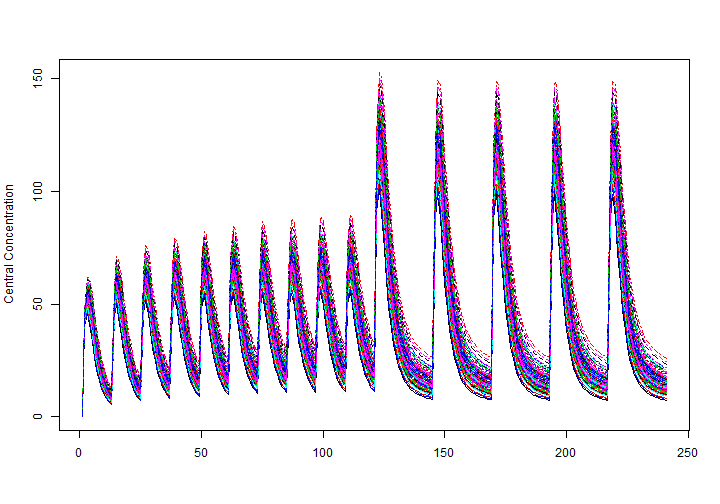
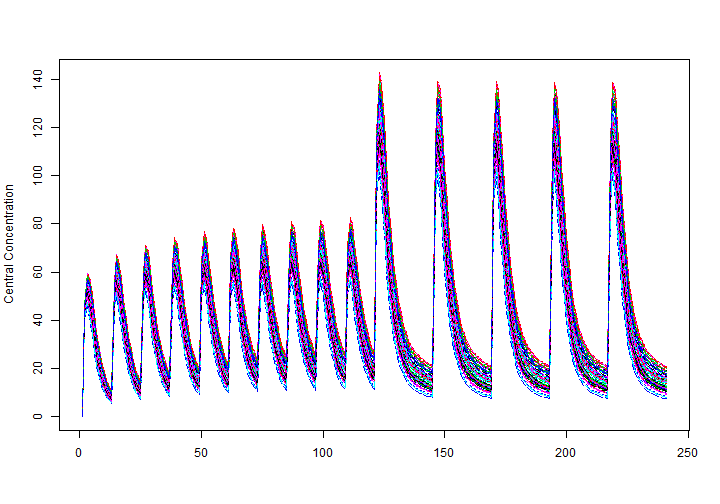
Add some more functions to suppress output (if needed)

diff --git a/README.md b/README.md
@@ -296,7 +296,7 @@ print(x)
 
 ```
 ## Solved RxODE object
-## Dll: C:\Users\fidlema3\AppData\Local\Temp\ep\RtmpKax2LC\Rx_intro-4320592d5afe/mod1.d/mod1_x64.dll
+## Dll: C:\Users\fidlema3\AppData\Local\Temp\ep\RtmpS488tR\Rx_intro-231c63735e9d/mod1.d/mod1_x64.dll
 ## 
 ## Parameters:
 ##      V2      V3      KA      CL       Q     Kin    Kout    EC50 
@@ -329,7 +329,7 @@ print(x)
 
 ```
 ## Solved RxODE object
-## Dll: C:\Users\fidlema3\AppData\Local\Temp\ep\RtmpKax2LC\Rx_intro-4320592d5afe/mod1.d/mod1_x64.dll
+## Dll: C:\Users\fidlema3\AppData\Local\Temp\ep\RtmpS488tR\Rx_intro-231c63735e9d/mod1.d/mod1_x64.dll
 ## 
 ## Parameters:
 ##      V2      V3      KA      CL       Q     Kin    Kout    EC50 
@@ -363,7 +363,7 @@ print(x)
 
 ```
 ## Solved RxODE object
-## Dll: C:\Users\fidlema3\AppData\Local\Temp\ep\RtmpKax2LC\Rx_intro-4320592d5afe/mod1.d/mod1_x64.dll
+## Dll: C:\Users\fidlema3\AppData\Local\Temp\ep\RtmpS488tR\Rx_intro-231c63735e9d/mod1.d/mod1_x64.dll
 ## 
 ## Parameters:
 ##      V2      V3      KA      CL       Q     Kin    Kout    EC50 
@@ -393,6 +393,26 @@ by `dpylr`.  For example you could filter it easily.
 
 ```r
 library(dplyr)
+```
+
+```
+## 
+## Attaching package: 'dplyr'
+```
+
+```
+## The following objects are masked from 'package:stats':
+## 
+##     filter, lag
+```
+
+```
+## The following objects are masked from 'package:base':
+## 
+##     intersect, setdiff, setequal, union
+```
+
+```r
 x <- mod1 %>% solve(theta,ev,inits) %>%  filter(time <=3)
 x
 ```
@@ -413,6 +433,36 @@ if (any(installed.packages()[,"Package"] == "data.table")){
     library(data.table)
     dt <- as.data.table(mod1 %>% solve(theta, ev, inits))
 }
+```
+
+```
+## data.table 1.10.4
+```
+
+```
+##   The fastest way to learn (by data.table authors): https://www.datacamp.com/courses/data-analysis-the-data-table-way
+```
+
+```
+##   Documentation: ?data.table, example(data.table) and browseVignettes("data.table")
+```
+
+```
+##   Release notes, videos and slides: http://r-datatable.com
+```
+
+```
+## 
+## Attaching package: 'data.table'
+```
+
+```
+## The following objects are masked from 'package:dplyr':
+## 
+##     between, first, last
+```
+
+```r
 dt
 ```
 
@@ -470,7 +520,7 @@ x
 
 ```
 ## Solved RxODE object
-## Dll: C:\Users\fidlema3\AppData\Local\Temp\ep\RtmpKax2LC\Rx_intro-4320592d5afe/mod1.d/mod1_x64.dll
+## Dll: C:\Users\fidlema3\AppData\Local\Temp\ep\RtmpS488tR\Rx_intro-231c63735e9d/mod1.d/mod1_x64.dll
 ## 
 ## Parameters:
 ##      V2      V3      KA      CL       Q     Kin    Kout    EC50 
@@ -514,7 +564,7 @@ x
 
 ```
 ## Solved RxODE object
-## Dll: C:\Users\fidlema3\AppData\Local\Temp\ep\RtmpKax2LC\Rx_intro-4320592d5afe/mod1.d/mod1_x64.dll
+## Dll: C:\Users\fidlema3\AppData\Local\Temp\ep\RtmpS488tR\Rx_intro-231c63735e9d/mod1.d/mod1_x64.dll
 ## 
 ## Parameters:
 ##      V2      V3      KA      CL       Q     Kin    Kout    EC50 
@@ -555,7 +605,7 @@ x
 
 ```
 ## Solved RxODE object
-## Dll: C:\Users\fidlema3\AppData\Local\Temp\ep\RtmpKax2LC\Rx_intro-4320592d5afe/mod1.d/mod1_x64.dll
+## Dll: C:\Users\fidlema3\AppData\Local\Temp\ep\RtmpS488tR\Rx_intro-231c63735e9d/mod1.d/mod1_x64.dll
 ## 
 ## Parameters:
 ##    V2    V3    KA    CL     Q   Kin  Kout  EC50 
@@ -606,12 +656,12 @@ head(theta.all)
 
 ```
 ##         KA       CL   V2    Q  V3 Kin Kout EC50
-## [1,] 0.294 16.82606 40.2 10.5 297   1    1  200
-## [2,] 0.294 19.15463 40.2 10.5 297   1    1  200
-## [3,] 0.294 16.27225 40.2 10.5 297   1    1  200
-## [4,] 0.294 24.00847 40.2 10.5 297   1    1  200
-## [5,] 0.294 19.60693 40.2 10.5 297   1    1  200
-## [6,] 0.294 16.31177 40.2 10.5 297   1    1  200
+## [1,] 0.294 16.59628 40.2 10.5 297   1    1  200
+## [2,] 0.294 20.72278 40.2 10.5 297   1    1  200
+## [3,] 0.294 23.32283 40.2 10.5 297   1    1  200
+## [4,] 0.294 20.19896 40.2 10.5 297   1    1  200
+## [5,] 0.294 22.32383 40.2 10.5 297   1    1  200
+## [6,] 0.294 21.67093 40.2 10.5 297   1    1  200
 ```
 
 Each subproblem can be simulated by using an explicit loop (or the `apply()`
